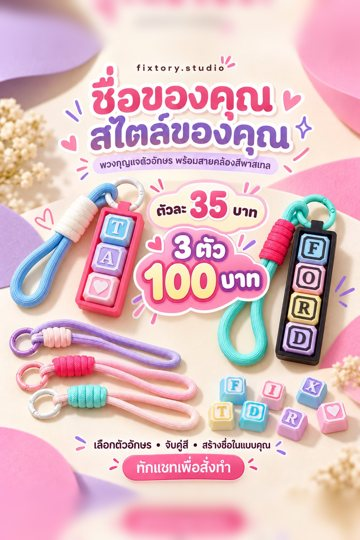
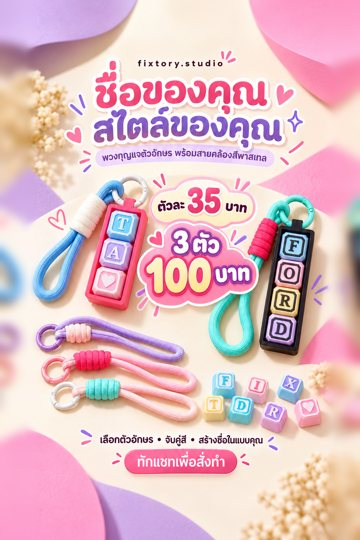
Alphabet Clicker: switch to the new poster
Claude-Session: https://claude.ai/code/session_019RUqranrGtQ3HGsCHnWydx

diff --git a/shop-order-next.html b/shop-order-next.html
@@ -278,7 +278,7 @@ const THAI_PROVINCES=["กรุงเทพมหานคร","กระบี
 
 // ข้อมูลสินค้า — ต้องตรงกับหน้าแคตตาล็อก ถ้าแก้ราคา/แบบที่แคตตาล็อก ให้แก้ที่นี่ด้วย
 const CATALOG_URL='https://claude.ai/artifact/464DJRbj5uyXQzqGRXmeTy';
-const IMG_V='?v=20261028e'; // เปลี่ยนเลขนี้เมื่อแก้รูป เพื่อให้เบราว์เซอร์โหลดรูปใหม่
+const IMG_V='?v=20261028f'; // เปลี่ยนเลขนี้เมื่อแก้รูป เพื่อให้เบราว์เซอร์โหลดรูปใหม่
 const PLA_CARE='PLA ทนร้อนได้ประมาณ 55–60°C ห้ามทิ้งไว้ในรถกลางแดด ห้ามใส่น้ำร้อนหรือเครื่องล้างจาน ล้างด้วยน้ำเย็นกับสบู่อ่อน';
 const PRODUCTS={
   phapchoo:{name:'น้องพับชู่',sub:'ที่วางทิชชูม้วน',img:'phapchoo.jpg?v=20261028b',from:399,
@@ -288,7 +288,7 @@ const PRODUCTS={
     info:{summary:'ที่ใส่กล่องนมและน้ำผลไม้รูปสัตว์ มีหูจับสองข้าง ใช้กับกล่องทรงสูง 150–250 มล. (ไม่รองรับกล่องทรงแบนกว้าง)',points:['เลือกได้ 13 แบบ แจ้งหมายเลขแบบตอนสั่งซื้อ','พิมพ์ด้วยเส้นสีรุ้ง สีไล่เองระหว่างพิมพ์ ทุกใบจึงไม่ซ้ำกัน','แบบ Color Pop เพิ่มสีที่ใบหน้าตัวสัตว์','สลักชื่อด้านหลังได้ ไทยหรืออังกฤษ 4–6 ตัวอักษร'],spec:[['วัสดุ','PLA'],['ระยะเวลาผลิต','1 วัน'],['ที่มาของแบบ','Licensed design']]},
     options:[['สีเดียว',590,false],['หลายสี (Color Pop)',690,false],['หลายสี + สลักชื่อด้านหลัง',790,true]],
     designs:['ไดโนเสาร์','จิ้งจอกยิ้ม','น้องหมา','น้องแมว','ก้อนเมฆ','น้องไก่','น้องหมี','แมวยิ้ม','เม่น','แพนด้า','บีเวอร์','จิ้งจอกคลาสสิก','นกฮูก']},
-  keycap:{name:'Alphabet Clicker',sub:'พวงกุญแจคีย์แคป',img:'kc/keycap-thumb.jpg'+IMG_V,big:'kc/keycap-poster23.jpg'+IMG_V,from:35,
+  keycap:{name:'Alphabet Clicker',sub:'พวงกุญแจคีย์แคป',img:'kc/keycap-thumb.jpg'+IMG_V,big:'kc/keycap-poster3.jpg'+IMG_V,from:35,
     info:{summary:'พวงกุญแจคีย์แคปกดคลิกได้ เรียงตัวอักษรเป็นชื่อหรือคำที่ชอบ เลือกสีคีย์ สีเคส และสายคล้องเองได้ ราคารวมฐาน (เคส) และสายคล้องแล้ว',points:['ตัวอักษร A–Z หน้ายิ้ม 7 แบบ และหัวใจ ผสมกันได้ รวมไม่เกิน 8 ช่อง','เลือกสีคีย์ทีละตัว จาก 3 คอลเลกชัน: Pastel, Dark mode, Polar White','สีเคส 5 สี สายคล้อง 8 แบบ','ราคา 3 ตัว 100 บาท ตัวต่อไปตัวละ 35 บาท รวมฐาน (เคส) และสายคล้องแล้ว'],spec:[['วัสดุ','PLA'],['ระยะเวลาผลิต','1 วัน'],['ที่มาของแบบ','ร้านออกแบบเอง']],
       gallery:['kc/keycap-set.jpg','kc/keycap-tor.jpg','kc/keycap-kao.jpg','kc/keycap-tui.jpg','kc/col-1.jpg','kc/col-2.jpg','kc/col-4.jpg','kc/col-3.jpg','kc/col-5.jpg']}}
 };

diff --git a/shop-order.html b/shop-order.html
@@ -278,7 +278,7 @@ const THAI_PROVINCES=["กรุงเทพมหานคร","กระบี
 
 // ข้อมูลสินค้า — ต้องตรงกับหน้าแคตตาล็อก ถ้าแก้ราคา/แบบที่แคตตาล็อก ให้แก้ที่นี่ด้วย
 const CATALOG_URL='https://claude.ai/artifact/464DJRbj5uyXQzqGRXmeTy';
-const IMG_V='?v=20261028e'; // เปลี่ยนเลขนี้เมื่อแก้รูป เพื่อให้เบราว์เซอร์โหลดรูปใหม่
+const IMG_V='?v=20261028f'; // เปลี่ยนเลขนี้เมื่อแก้รูป เพื่อให้เบราว์เซอร์โหลดรูปใหม่
 const PLA_CARE='PLA ทนร้อนได้ประมาณ 55–60°C ห้ามทิ้งไว้ในรถกลางแดด ห้ามใส่น้ำร้อนหรือเครื่องล้างจาน ล้างด้วยน้ำเย็นกับสบู่อ่อน';
 const PRODUCTS={
   phapchoo:{name:'น้องพับชู่',sub:'ที่วางทิชชูม้วน',img:'phapchoo.jpg?v=20261028b',from:399,
@@ -288,7 +288,7 @@ const PRODUCTS={
     info:{summary:'ที่ใส่กล่องนมและน้ำผลไม้รูปสัตว์ มีหูจับสองข้าง ใช้กับกล่องทรงสูง 150–250 มล. (ไม่รองรับกล่องทรงแบนกว้าง)',points:['เลือกได้ 13 แบบ แจ้งหมายเลขแบบตอนสั่งซื้อ','พิมพ์ด้วยเส้นสีรุ้ง สีไล่เองระหว่างพิมพ์ ทุกใบจึงไม่ซ้ำกัน','แบบ Color Pop เพิ่มสีที่ใบหน้าตัวสัตว์','สลักชื่อด้านหลังได้ ไทยหรืออังกฤษ 4–6 ตัวอักษร'],spec:[['วัสดุ','PLA'],['ระยะเวลาผลิต','1 วัน'],['ที่มาของแบบ','Licensed design']]},
     options:[['สีเดียว',590,false],['หลายสี (Color Pop)',690,false],['หลายสี + สลักชื่อด้านหลัง',790,true]],
     designs:['ไดโนเสาร์','จิ้งจอกยิ้ม','น้องหมา','น้องแมว','ก้อนเมฆ','น้องไก่','น้องหมี','แมวยิ้ม','เม่น','แพนด้า','บีเวอร์','จิ้งจอกคลาสสิก','นกฮูก']},
-  keycap:{name:'Alphabet Clicker',sub:'พวงกุญแจคีย์แคป',img:'kc/keycap-thumb.jpg'+IMG_V,big:'kc/keycap-poster23.jpg'+IMG_V,from:35,
+  keycap:{name:'Alphabet Clicker',sub:'พวงกุญแจคีย์แคป',img:'kc/keycap-thumb.jpg'+IMG_V,big:'kc/keycap-poster3.jpg'+IMG_V,from:35,
     info:{summary:'พวงกุญแจคีย์แคปกดคลิกได้ เรียงตัวอักษรเป็นชื่อหรือคำที่ชอบ เลือกสีคีย์ สีเคส และสายคล้องเองได้ ราคารวมฐาน (เคส) และสายคล้องแล้ว',points:['ตัวอักษร A–Z หน้ายิ้ม 7 แบบ และหัวใจ ผสมกันได้ รวมไม่เกิน 8 ช่อง','เลือกสีคีย์ทีละตัว จาก 3 คอลเลกชัน: Pastel, Dark mode, Polar White','สีเคส 5 สี สายคล้อง 8 แบบ','ราคา 3 ตัว 100 บาท ตัวต่อไปตัวละ 35 บาท รวมฐาน (เคส) และสายคล้องแล้ว'],spec:[['วัสดุ','PLA'],['ระยะเวลาผลิต','1 วัน'],['ที่มาของแบบ','ร้านออกแบบเอง']],
       gallery:['kc/keycap-set.jpg','kc/keycap-tor.jpg','kc/keycap-kao.jpg','kc/keycap-tui.jpg','kc/col-1.jpg','kc/col-2.jpg','kc/col-4.jpg','kc/col-3.jpg','kc/col-5.jpg']}}
 };
